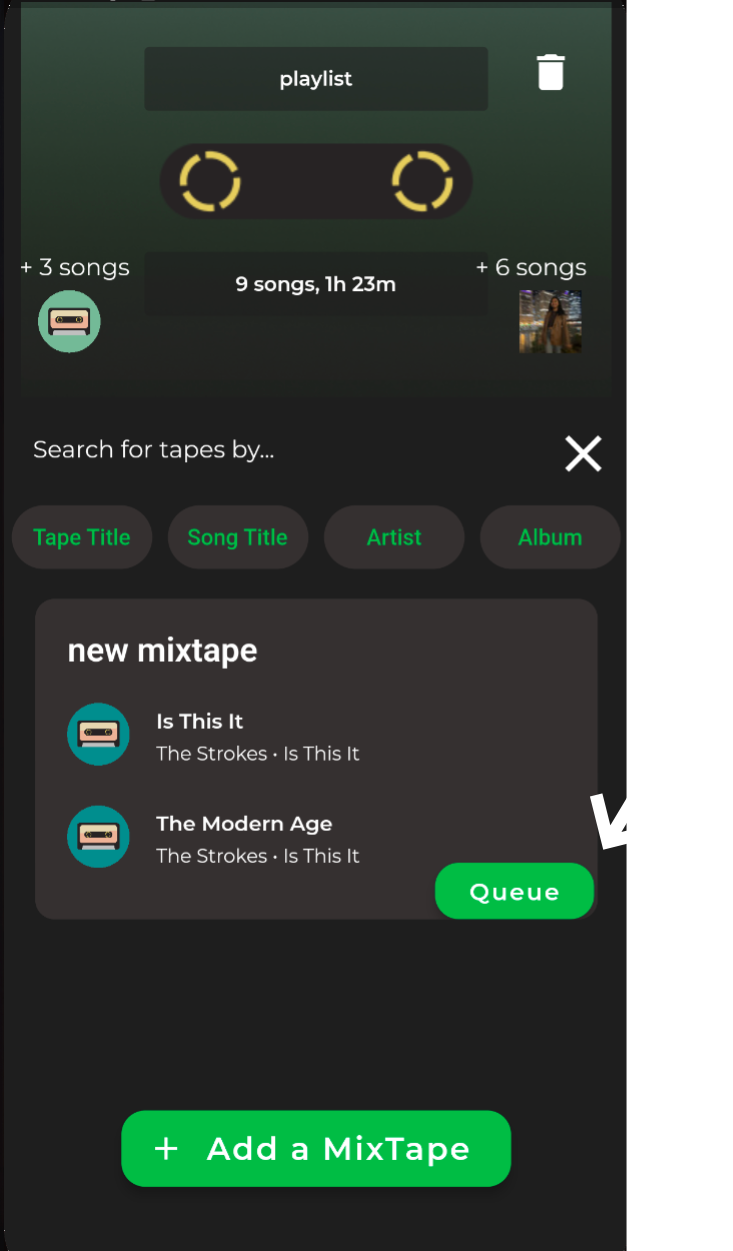
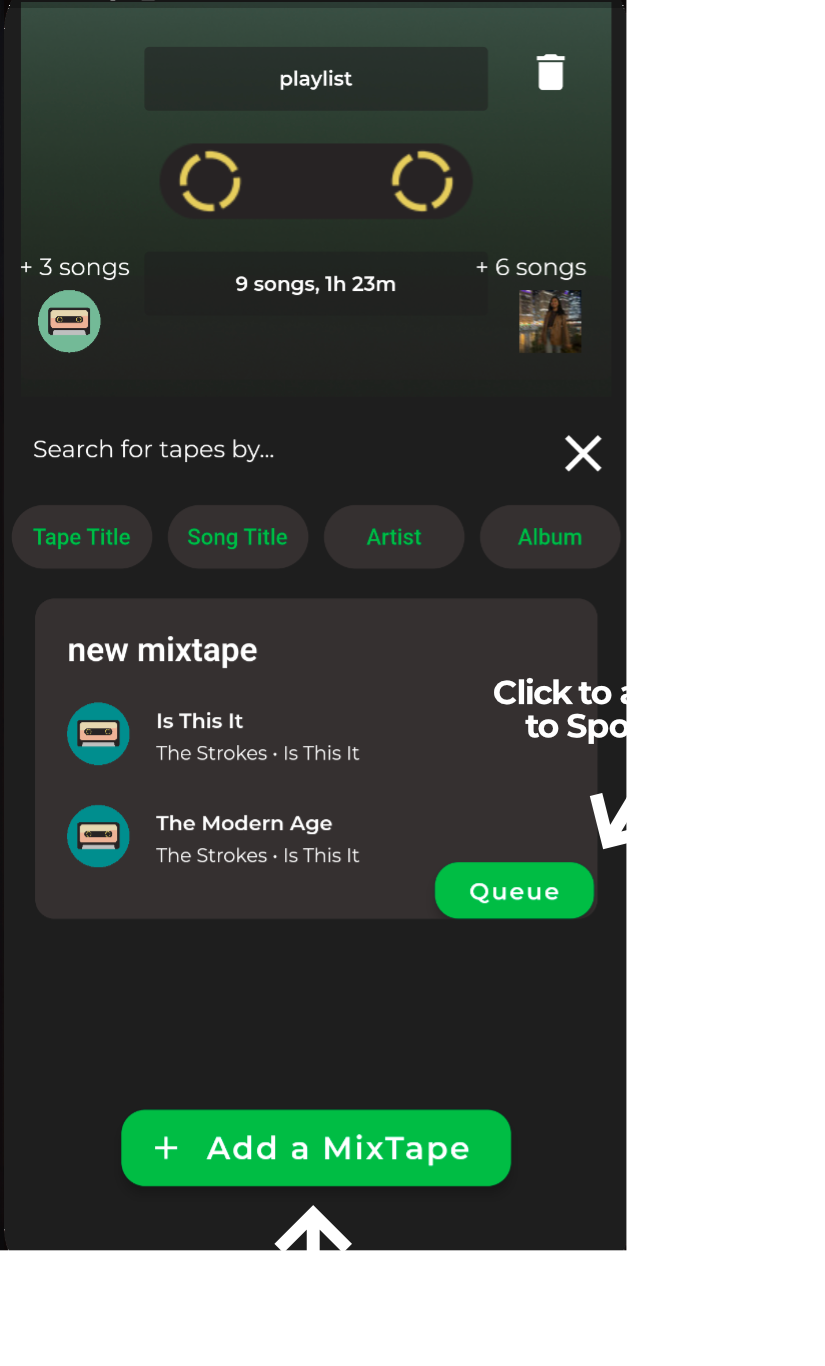
added photos to tutorial

diff --git a/lib/tour_targets/playlist_mixtape_tutorial_pages.dart b/lib/tour_targets/playlist_mixtape_tutorial_pages.dart
@@ -1,7 +1,7 @@
 import 'package:flutter/material.dart';
 import 'package:mixtape/utilities/colors.dart';
 
-final List<Widget> _tutorialPages = <Widget>[
+List<Widget> _tutorialPages = <Widget>[
   // playlist creation
   Container(
     alignment: Alignment.center,
@@ -23,7 +23,7 @@ final List<Widget> _tutorialPages = <Widget>[
           ),
           Text(
             'This is the playlist creation screen. Choose a photo, title, and friend for your playlist. \n\n'
-            'Click the \"Invite\" button to send the playlist invitation. Your friend must accept the invite in order for the playlist to be created',
+            'Click the \"Invite\" button to send an invitation. Your friend must accept the invite for the playlist to be created',
             textAlign: TextAlign.center,
             style: TextStyle(
               fontFamily: 'Montserrat',
@@ -31,12 +31,98 @@ final List<Widget> _tutorialPages = <Widget>[
               fontSize:15,
             ),
           ),
-          ClipRRect(
-            borderRadius: BorderRadius.circular(5),
-            child: Image.asset(
-              'assets/playlist_creation.png',
-              height: 400,
-              fit: BoxFit.cover,
+          SizedBox(
+            height: 5,
+          ),
+          Center(
+            child: ClipRRect(
+              borderRadius: BorderRadius.circular(5),
+              child: Image.asset(
+                'assets/playlist_creation.png',
+                height: 400,
+                fit: BoxFit.cover,
+              ),
+            ),
+          ),
+          SizedBox(
+            height: 10,
+          ),
+          Row(
+            mainAxisAlignment: MainAxisAlignment.spaceBetween,
+            crossAxisAlignment: CrossAxisAlignment.center,
+            children: [
+              Text(
+                "1 of 4",
+                style: TextStyle(
+                  fontFamily: 'Montserrat',
+                  fontWeight: FontWeight.bold,
+                  color: Colors.white,
+                  fontSize: 12,
+                ),
+              ),
+              Text(
+                "Swipe",
+                style: TextStyle(
+                  fontFamily: 'Montserrat',
+                  color: Colors.white,
+                  fontWeight: FontWeight.bold,
+                  fontSize: 12,
+                ),
+              ),
+              Icon(
+                Icons.arrow_forward_rounded,
+                color: Colors.white,
+                size: 20,
+              ),
+
+            ],
+          ),
+        ],
+      ),
+    ),
+  ),
+  // playlist info
+  Container(
+    alignment: Alignment.center,
+    child: Padding(
+      padding: EdgeInsets.all(8),
+      child: Column(
+        mainAxisAlignment: MainAxisAlignment.center,
+        crossAxisAlignment: CrossAxisAlignment.center,
+        children: [
+          Text(
+            'Playlist Screen',
+            textAlign: TextAlign.center,
+            style: TextStyle(
+              fontWeight: FontWeight.bold,
+              fontFamily: 'Montserrat',
+              color: Colors.white,
+              fontSize:30,
+            ),
+          ),
+          Text(
+            'This is the playlist info screen. View playlist statistics and a list of all MixTapes. \n\n'
+                'Click the \"Add a MixTape\" button to add one to the playlist. Your friend will receive a notification.\n'
+            'Click the \"Queue\" button to add a MixTape to your Spotify queue.',
+            textAlign: TextAlign.center,
+            style: TextStyle(
+              fontFamily: 'Montserrat',
+              color: Colors.white,
+              fontSize:15,
+            ),
+          ),
+          SizedBox(
+            height: 10,
+          ),
+          Padding(
+            padding: EdgeInsets.fromLTRB(10, 0, 0, 0),
+            child: ClipRRect(
+              borderRadius: BorderRadius.circular(5),
+              child: Image.asset(
+                'assets/playlist_info.png',
+                height: 375,
+                fit: BoxFit.cover,
+              ),
             ),
           ),
         ],
@@ -53,7 +139,7 @@ final List<Widget> _tutorialPages = <Widget>[
         crossAxisAlignment: CrossAxisAlignment.center,
         children: [
           Text(
-            'Profile',
+            'MixTape Creation',
             textAlign: TextAlign.center,
             style: TextStyle(
               fontWeight: FontWeight.bold,
@@ -63,20 +149,23 @@ final List<Widget> _tutorialPages = <Widget>[
             ),
           ),
           Text(
-            'This is the profile page. Your MixTape account is linked to your Spotify account.\n'
-                'You will be able to add a collection of songs from playlist MixTapes to your queue.',
+            'This is the MixTape creation screen. A MixTape is a collection of songs you want to share.\n'
+                'Customize your Tape by adding a name and description.',
             textAlign: TextAlign.center,
             style: TextStyle(
               fontFamily: 'Montserrat',
               color: Colors.white,
-              fontSize:17,
+              fontSize:15,
             ),
+          ),
+          SizedBox(
+            height: 5,
           ),
           ClipRRect(
             borderRadius: BorderRadius.circular(5),
             child: Image.asset(
-              'assets/profile_page.png',
-              height: 100,
+              'assets/create_mixtape.png',
+              height: 375,
               fit: BoxFit.cover,
             ),
           ),
@@ -94,7 +183,7 @@ final List<Widget> _tutorialPages = <Widget>[
         crossAxisAlignment: CrossAxisAlignment.center,
         children: [
           Text(
-            'Profile',
+            'Add Songs',
             textAlign: TextAlign.center,
             style: TextStyle(
               fontWeight: FontWeight.bold,
@@ -104,61 +193,23 @@ final List<Widget> _tutorialPages = <Widget>[
             ),
           ),
           Text(
-            'This is the profile page. Your MixTape account is linked to your Spotify account.\n'
-                'You will be able to add a collection of songs from playlist MixTapes to your queue.',
+            'This is the song search screen. Search songs from Spotify to add to your MixTape.\n'
+                'Filter results by name, artist, or album.',
             textAlign: TextAlign.center,
             style: TextStyle(
               fontFamily: 'Montserrat',
               color: Colors.white,
-              fontSize:17,
+              fontSize:15,
             ),
+          ),
+          SizedBox(
+            height: 5,
           ),
           ClipRRect(
             borderRadius: BorderRadius.circular(5),
             child: Image.asset(
-              'assets/profile_page.png',
-              height: 100,
-              fit: BoxFit.cover,
-            ),
-          ),
-        ],
-      ),
-    ),
-  ),
-  // playlist info, queueing
-  Container(
-    alignment: Alignment.center,
-    child: Padding(
-      padding: EdgeInsets.all(8),
-      child: Column(
-        mainAxisAlignment: MainAxisAlignment.center,
-        crossAxisAlignment: CrossAxisAlignment.center,
-        children: [
-          Text(
-            'Profile',
-            textAlign: TextAlign.center,
-            style: TextStyle(
-              fontWeight: FontWeight.bold,
-              fontFamily: 'Montserrat',
-              color: Colors.white,
-              fontSize:30,
-            ),
-          ),
-          Text(
-            'This is the profile page. Your MixTape account is linked to your Spotify account.\n'
-                'You will be able to add a collection of songs from playlist MixTapes to your queue.',
-            textAlign: TextAlign.center,
-            style: TextStyle(
-              fontFamily: 'Montserrat',
-              color: Colors.white,
-              fontSize:17,
-            ),
-          ),
-          ClipRRect(
-            borderRadius: BorderRadius.circular(5),
-            child: Image.asset(
-              'assets/profile_page.png',
-              height: 100,
+              'assets/add_songs.png',
+              height: 375,
               fit: BoxFit.cover,
             ),
           ),
@@ -186,7 +237,8 @@ class _PlaylistMixtapeTutorialPagesState extends State<PlaylistMixtapeTutorialPa
     final double screenWidth = screenSize.width;
     final double screenHeight = screenSize.height;
     return Container(
-      height: screenHeight * .7,
+      padding: EdgeInsets.fromLTRB(0, screenHeight * .25, 0, 0),
+      height: screenHeight,
       child: PageView(
         allowImplicitScrolling: true,
         children: _tutorialPages,
